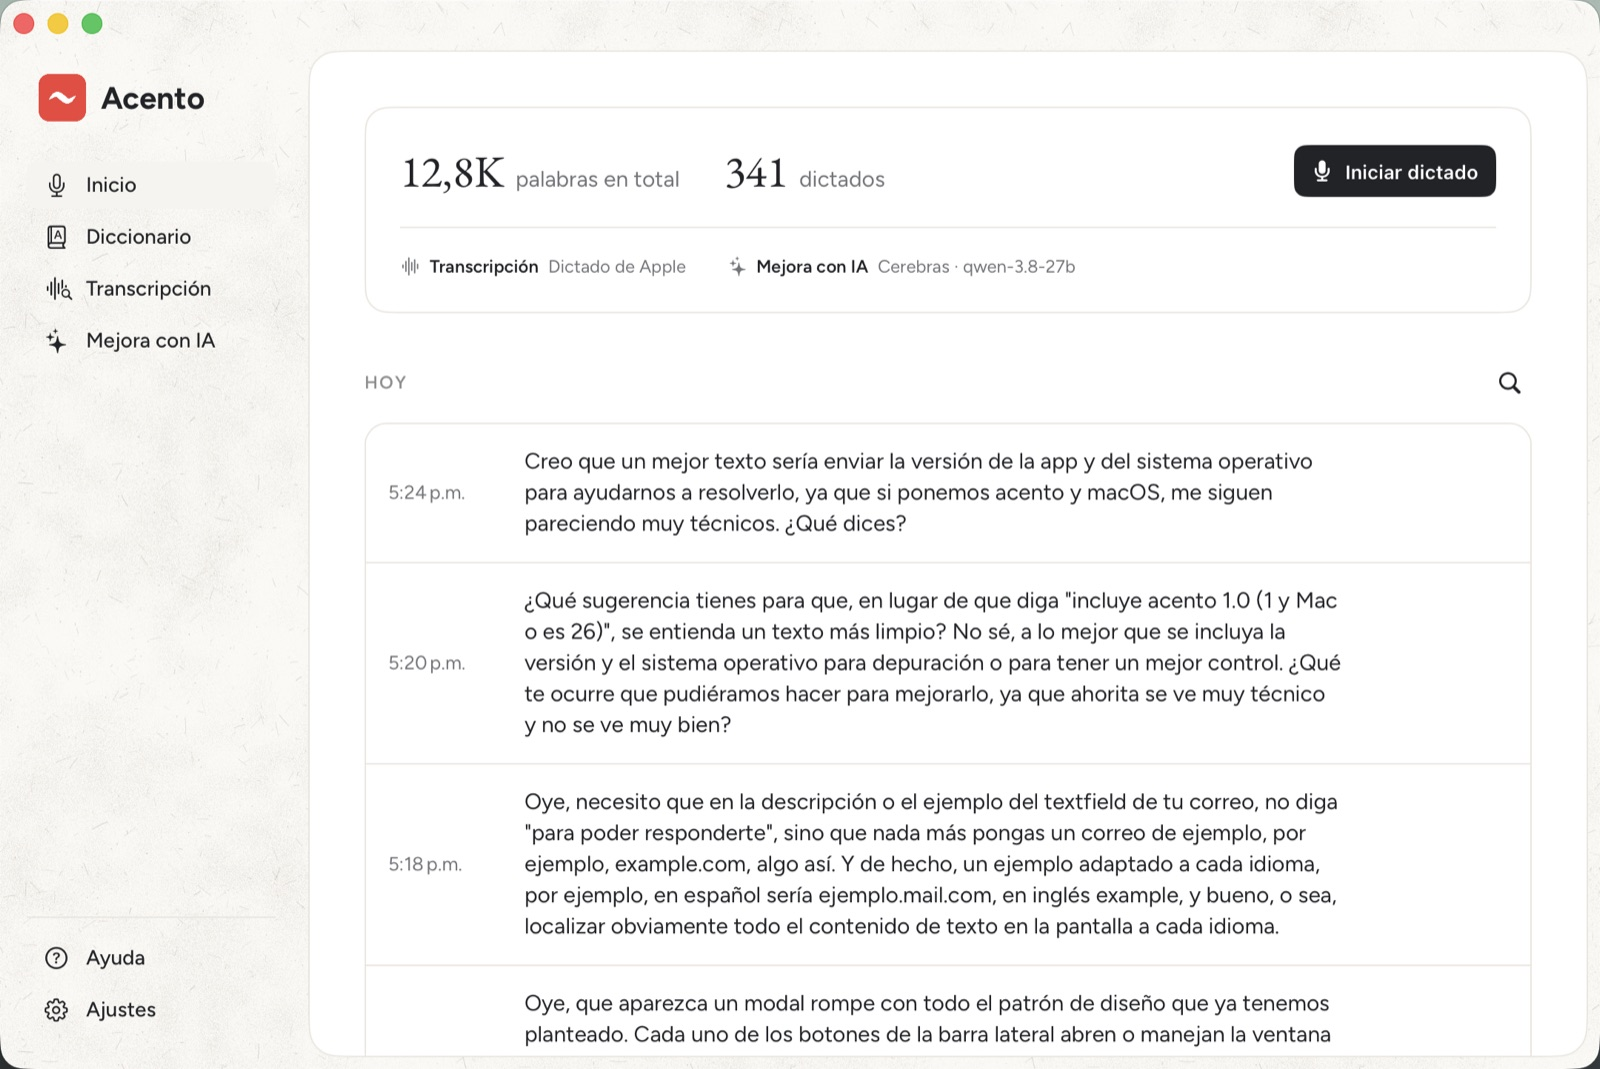
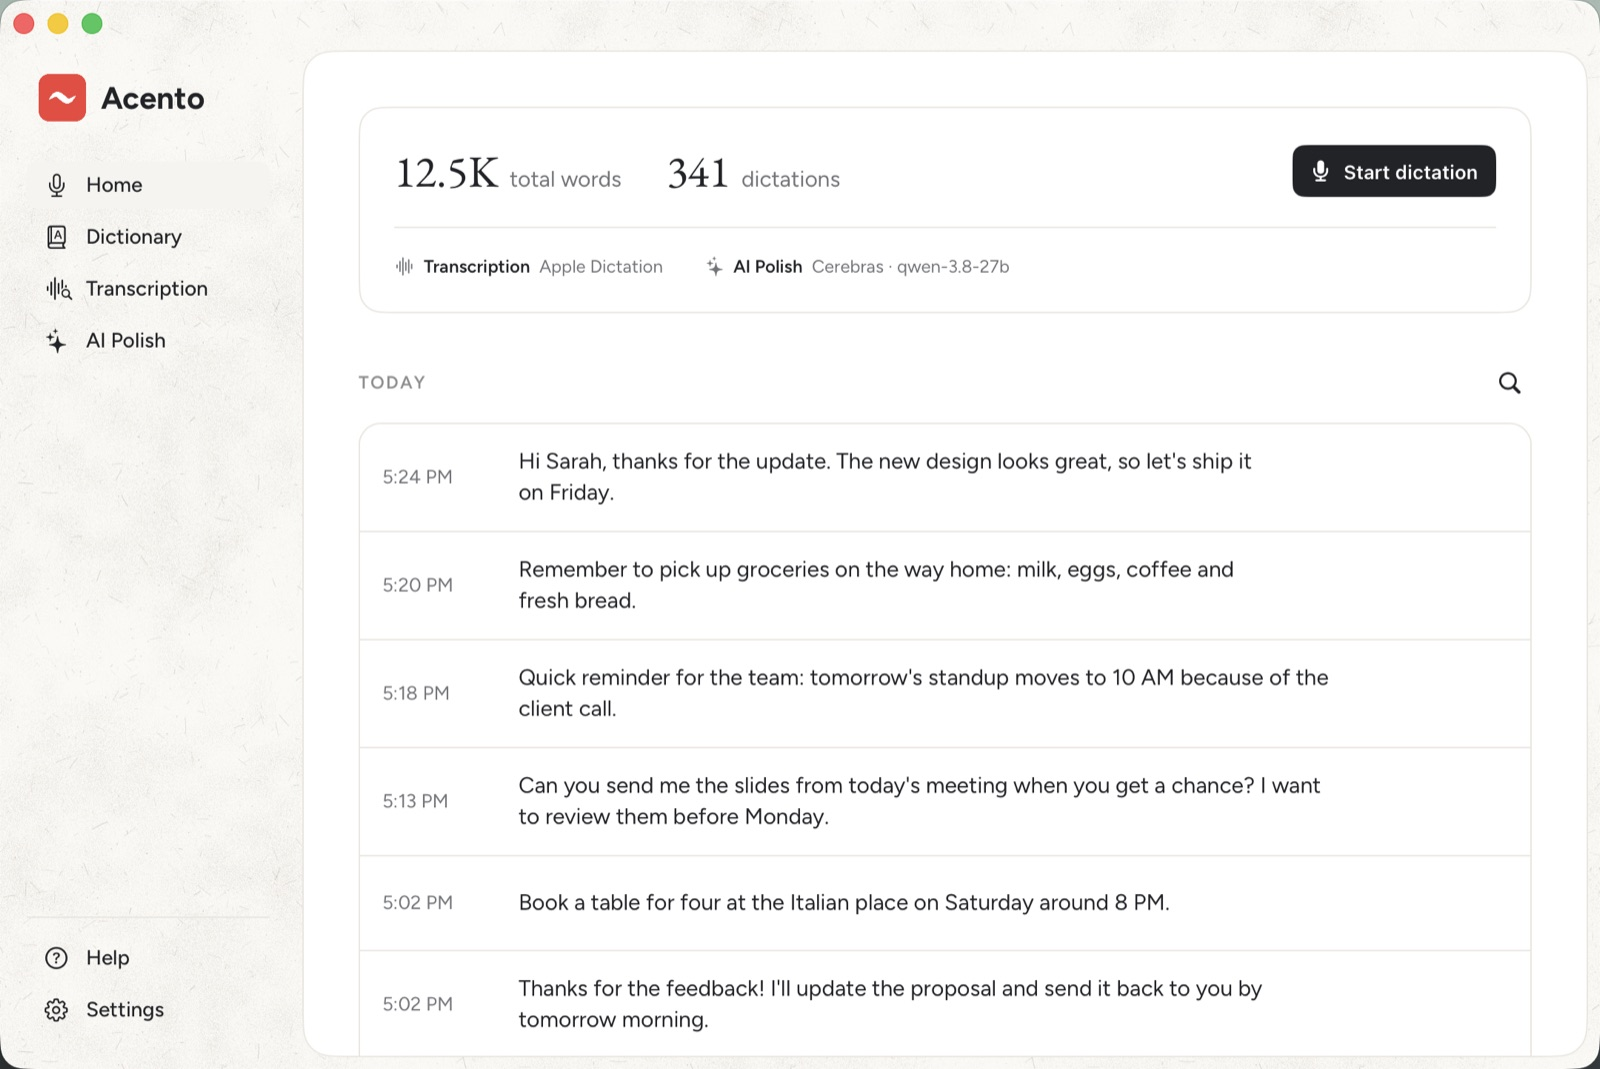
Use English screenshots in README

diff --git a/README.md b/README.md
@@ -8,6 +8,11 @@ A macOS dictation app with local speech models and optional bring-your-own-key c
 
 <p align="center">
   <img src="Design/Screenshots/transcription.jpg" alt="Choosing a transcription model" width="49%">
+  <img src="Design/Screenshots/ai-polish.jpg" alt="AI Polish providers" width="49%">
+</p>
+
+<p align="center">
+  <img src="Design/Screenshots/dictionary.jpg" alt="Personal dictionary" width="49%">
   <img src="Design/Screenshots/settings.jpg" alt="Acento settings" width="49%">
 </p>
 
